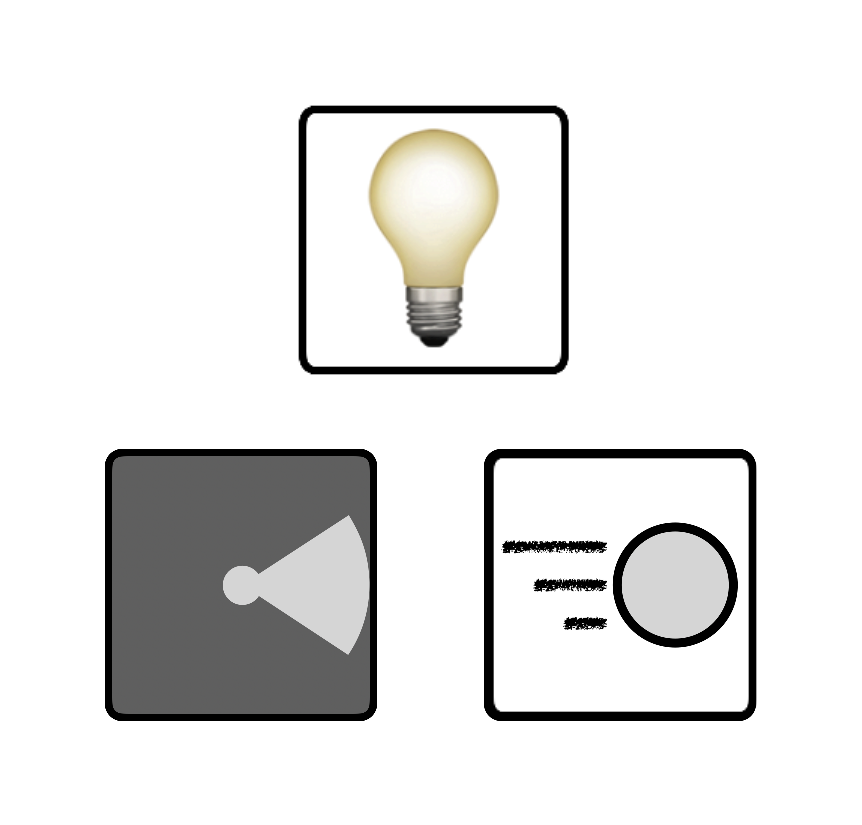
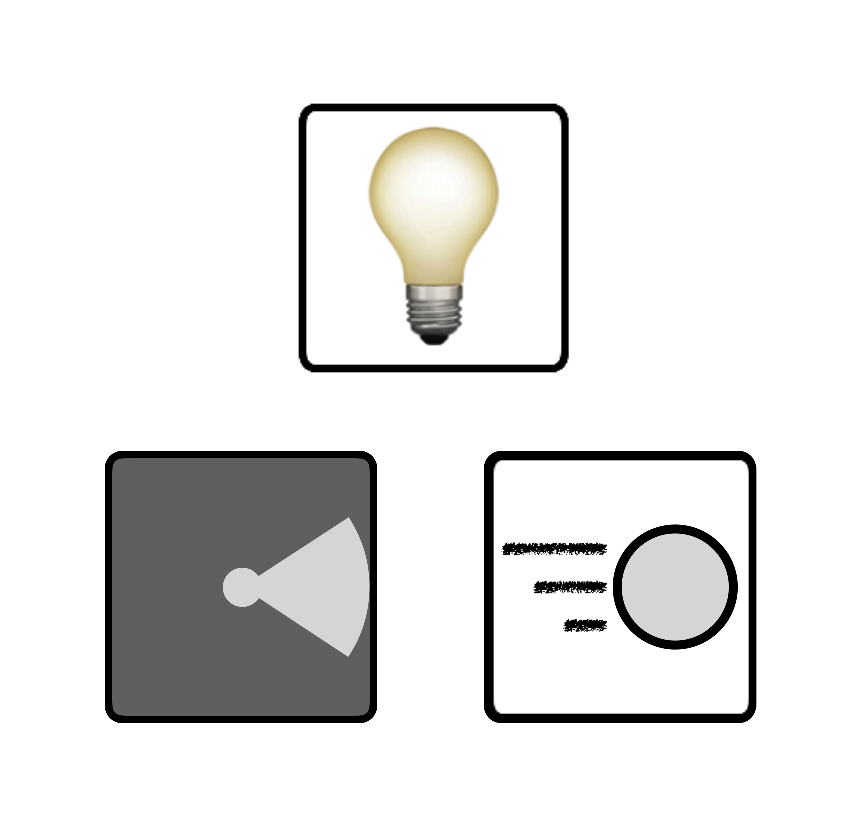
tiny button edge color tweak, tiny button image tweak, deploy

diff --git a/webAppServiceWorker.js b/webAppServiceWorker.js
@@ -2,7 +2,7 @@
 // file "webAppServiceWorker.js"
 //
 
-const cacheName = "FrACT10·2025-04-18";
+const cacheName = "FrACT10·2025-04-21";
 
 
 // Fetching content using Service Worker, this is called on reload. If cache name has changed, `install` is next
